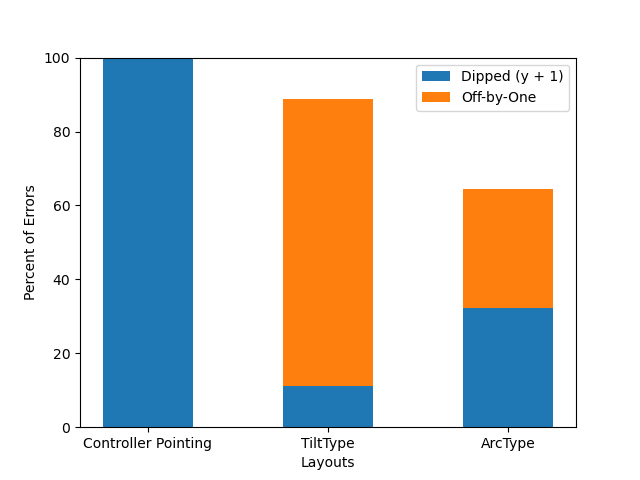
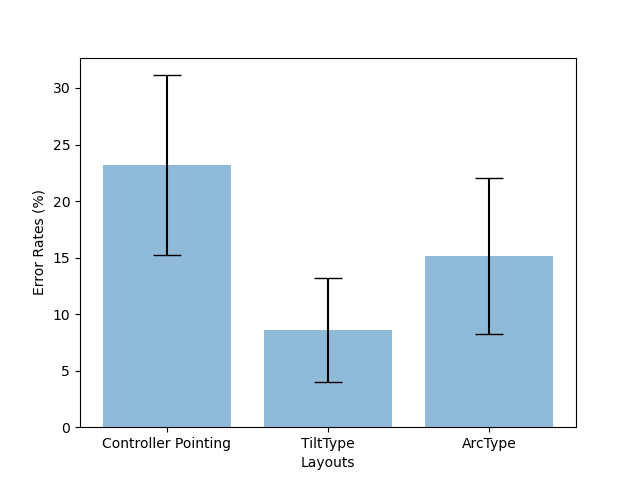
new charts

diff --git a/Assets/Scripts/Utils/metrics.py b/Assets/Scripts/Utils/metrics.py
@@ -362,6 +362,30 @@ def make_duration_lines(data):
 
 
 def make_error_bars(data):
+    means = list()
+    stds = list()
+    for layout, vals in data.layout_error_rates.items():
+        if layout == Layouts.SliderOnly.value:
+            continue
+        means.append(np.mean(vals))
+        stds.append(np.std(vals))
+
+    ind = np.arange(3)  # the x locations for the groups
+    width = 0.5  # the width of the bars: can also be len(x) sequence
+
+    fig, ax = plt.subplots()
+    ax.bar(ind, means, yerr=stds, align='center', alpha=0.5, ecolor='black', capsize=10)
+
+
+    plt.ylabel('Error Rates (%)')
+    plt.xticks(ind, (layout_name(e) for e in data.layout_blind_io.keys() if e != Layouts.SliderOnly.value))
+    plt.xlabel("Layouts")
+
+    plt.savefig('../../Results/Figures/error-chart.png', transparent=True)
+    plt.show()
+
+
+def make_relative_error_bars(data):
     items = list()
     for layout, pairs in data.layout_blind_io.items():
         if layout == Layouts.SliderOnly.value:
@@ -398,7 +422,7 @@ def make_error_bars(data):
     plt.xlabel("Layouts")
     plt.legend((p1, p2), ('Dipped (y + 1)', 'Off-by-One'))
 
-    plt.savefig('../../Results/Figures/error-chart.png', transparent=True)
+    plt.savefig('../../Results/Figures/error-type-chart.png', transparent=True)
     plt.show()
 
 
@@ -509,15 +533,16 @@ def write_csv(name, rows, digits=2):
 
 if __name__ == '__main__':
     data = get_data()
-    make_point_cloud(data)
-    make_2d_point_cloud(data, [0, 2])
-    make_2d_point_cloud(data, [1, 2])
+    # make_point_cloud(data)
+    # make_2d_point_cloud(data, [0, 2])
+    # make_2d_point_cloud(data, [1, 2])
 
-    make_wpm_bars(data)
-    make_pit_bars(data)
+    # make_wpm_bars(data)
+    # make_pit_bars(data)
     # make_duration_lines(data)  # broken
 
     make_error_bars(data)
+    make_relative_error_bars(data)
 
     write_csv('main', data.main_csv, digits=2)
     write_csv('travels', data.travel_csv, digits=2)
@@ -543,7 +568,5 @@ if __name__ == '__main__':
             for i in range(min(len(word), len(chars))):
                 chars[i][word[i]] += 1
 
-
-# split wpm for blind and perfect, no awpm
-# update ranges, regenerate all
-# rename raycast
+    for k, vs in data.layout_error_rates.items():
+        print(k, np.mean(vs))
